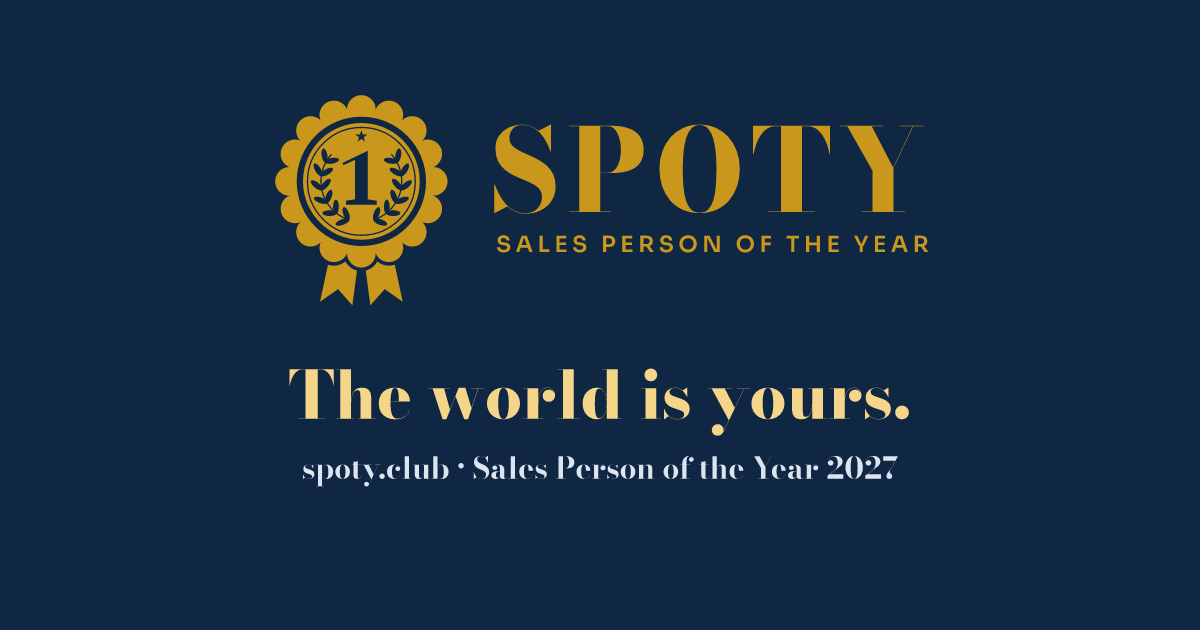
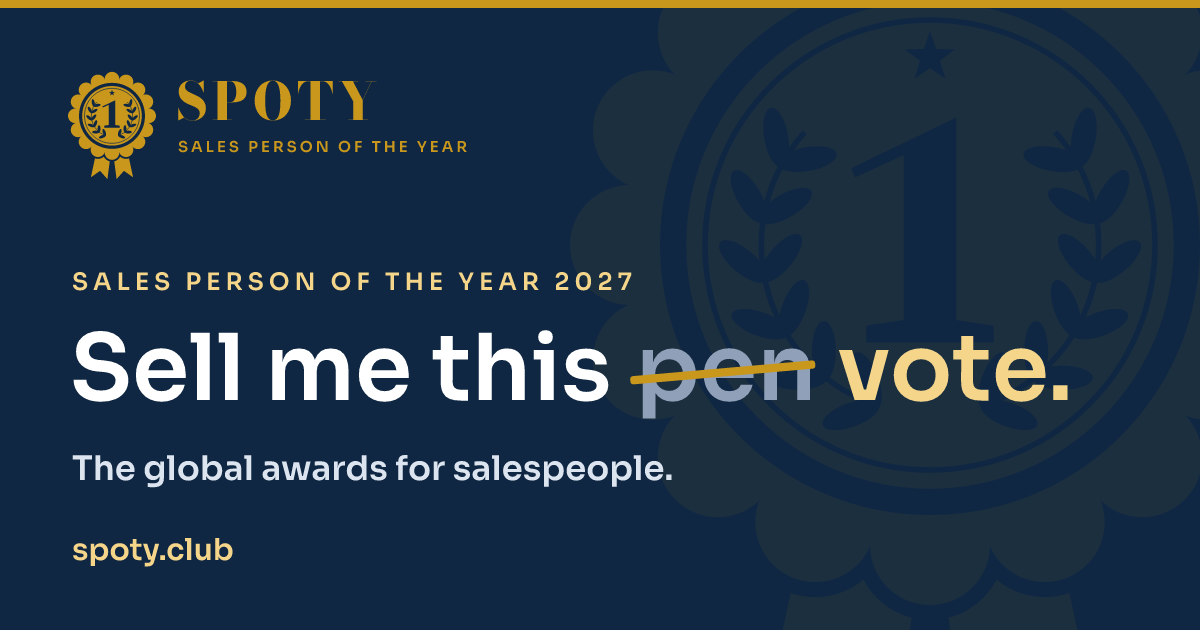
New link preview image, generic LinkedIn share images, share section in welcome email

diff --git a/tools/certificates/share.js b/tools/certificates/share.js
@@ -1,0 +1,102 @@
+// SPOTY share images: the website link preview (og.png) and the generic
+// "I'm going for SPOTY 2027" LinkedIn banner and square post sent in the welcome email.
+// Run: node share.js   (writes to assets/og.png and assets/share/)
+
+const fs = require('fs');
+const path = require('path');
+const { Resvg } = require('@resvg/resvg-js');
+
+const ROOT = path.resolve(__dirname, '..', '..');
+const FONTS = ['bodoni800.ttf', 'bodoni700.ttf', 'bodoni600italic.ttf', 'sora600.ttf'].map((f) => path.join(__dirname, 'fonts', f));
+const MARK = fs.readFileSync(path.join(ROOT, 'assets', 'spoty-mark.svg'), 'utf8');
+const SERIF = "'Bodoni Moda 48pt', 'Bodoni Moda', Didot, serif";
+const NAVY = '#0F2742', GOLD = '#C9971C', GOLD_LIGHT = '#F4D58A', MUTED = '#8FA0B8', ON_NAVY = '#DCE4EF';
+const opts = { font: { fontFiles: FONTS, loadSystemFonts: false, defaultFontFamily: 'Sora' } };
+
+let uid = 0;
+function mark(x, y, h, colour = GOLD, opacity = 1) {
+  const n = ++uid;
+  let inner = MARK.replace(/^[\s\S]*?<svg[^>]*>/, '').replace(/<\/svg>\s*$/, '').replace(/<title>.*?<\/title>/, '');
+  inner = inner.replace(/id="(k\d+[a-z])"/g, `id="m${n}$1"`).replace(/url\(#(k\d+[a-z])\)/g, `url(#m${n}$1)`);
+  inner = inner.split('#C9971C').join(colour);
+  const s = h / 240;
+  return `<g transform="translate(${x - 100 * s} ${y}) scale(${s})" opacity="${opacity}">${inner}</g>`;
+}
+
+// Measure a string's rendered width so the strike-through and "vote." land exactly.
+function width(str, font, size, weight) {
+  const svg = `<svg xmlns="http://www.w3.org/2000/svg" width="4000" height="400"><text x="0" y="300" font-family="${font}" font-size="${size}" font-weight="${weight}" fill="#000" xml:space="preserve">${str}</text></svg>`;
+  const box = new Resvg(svg, opts).getBBox();
+  return box ? box.x + box.width : 0;
+}
+
+// "Sell me this ~~pen~~ vote." starting at x (left aligned) or centred on cx.
+function headline({ x, cx, y, size }) {
+  const font = 'Sora', weight = 600;
+  const space = width('a a', font, size, weight) - width('aa', font, size, weight) + size * 0.08;
+  const w1 = width('Sell me this', font, size, weight);
+  const wPen = width('pen', font, size, weight);
+  const wVote = width('vote.', font, size, weight);
+  const total = w1 + space + wPen + space + wVote;
+  const left = cx !== undefined ? cx - total / 2 : x;
+  const xPen = left + w1 + space, xVote = xPen + wPen + space;
+  const t = (tx, str, fill) => `<text x="${tx}" y="${y}" font-family="${font}" font-size="${size}" font-weight="${weight}" fill="${fill}">${str}</text>`;
+  const sy = y - size * 0.3;
+  return t(left, 'Sell me this', '#FFFFFF') + t(xPen, 'pen', MUTED) + t(xVote, 'vote.', GOLD_LIGHT) +
+    `<rect x="${xPen - size * 0.06}" y="${sy - size * 0.045}" width="${wPen + size * 0.12}" height="${size * 0.09}" rx="${size * 0.03}" fill="${GOLD}" transform="rotate(-5 ${xPen + wPen / 2} ${sy})"/>`;
+}
+
+const text = (x, y, str, { font = 'Sora', size = 30, weight = 600, fill = '#FFFFFF', anchor = 'start', spacing = 0 } = {}) =>
+  `<text x="${x}" y="${y}" font-family="${font}" font-size="${size}" font-weight="${weight}" fill="${fill}" text-anchor="${anchor}"${spacing ? ` letter-spacing="${spacing}"` : ''}>${str}</text>`;
+const bold = (inner, colour, w = 2) => `<g stroke="${colour}" stroke-width="${w}" stroke-linejoin="round">${inner}</g>`;
+
+// ---------- Link preview, 1200 x 630 ----------
+function og() {
+  return `<svg xmlns="http://www.w3.org/2000/svg" viewBox="0 0 1200 630" width="1200" height="630">
+<rect width="1200" height="630" fill="${NAVY}"/>
+${mark(930, -130, 900, GOLD, 0.07)}
+<rect width="1200" height="8" fill="${GOLD}"/>
+${mark(112, 70, 110)}
+${text(176, 120, 'SPOTY', { font: SERIF, size: 52, weight: 800, fill: GOLD, spacing: 4 })}
+${text(178, 152, 'SALES PERSON OF THE YEAR', { size: 15, fill: GOLD, spacing: 3 })}
+${text(72, 290, 'SALES PERSON OF THE YEAR 2027', { size: 24, fill: GOLD_LIGHT, spacing: 5 })}
+${headline({ x: 70, y: 400, size: 92 })}
+${text(72, 480, 'The global awards for salespeople.', { size: 34, fill: ON_NAVY })}
+${text(72, 560, 'spoty.club', { size: 30, fill: GOLD_LIGHT })}
+</svg>`;
+}
+
+// ---------- Generic LinkedIn banner, 1584 x 396 (left 500px kept clear for the profile photo) ----------
+function banner() {
+  return `<svg xmlns="http://www.w3.org/2000/svg" viewBox="0 0 1584 396" width="1584" height="396">
+<rect width="1584" height="396" fill="${NAVY}"/>
+<rect width="1584" height="8" fill="${GOLD}"/>
+${mark(1380, -120, 700, GOLD, 0.06)}
+${mark(1420, 48, 300)}
+${text(520, 148, 'SALES PERSON OF THE YEAR 2027', { size: 28, fill: GOLD_LIGHT, spacing: 6 })}
+${bold(text(518, 240, "I'm going for SPOTY 2027", { font: SERIF, size: 54, weight: 800 }), '#FFFFFF', 2.4)}
+${text(520, 306, 'Early access · spoty.club', { size: 32 })}
+</svg>`;
+}
+
+// ---------- Square post, 1080 x 1080 ----------
+function post() {
+  return `<svg xmlns="http://www.w3.org/2000/svg" viewBox="0 0 1080 1080" width="1080" height="1080">
+<rect width="1080" height="1080" fill="${NAVY}"/>
+${mark(860, 420, 900, GOLD, 0.06)}
+<rect x="36" y="36" width="1008" height="1008" fill="none" stroke="${GOLD}" stroke-width="6"/>
+${mark(540, 110, 300)}
+${text(540, 500, "I'M GOING FOR", { size: 30, fill: GOLD_LIGHT, anchor: 'middle', spacing: 8 })}
+${bold(text(540, 590, 'Sales Person', { font: SERIF, size: 92, weight: 800, anchor: 'middle' }), '#FFFFFF', 2.4)}
+${bold(text(540, 690, 'of the Year 2027', { font: SERIF, size: 92, weight: 800, anchor: 'middle' }), '#FFFFFF', 2.4)}
+${headline({ cx: 540, y: 820, size: 64 })}
+${text(540, 960, 'Early access · spoty.club', { size: 32, fill: ON_NAVY, anchor: 'middle' })}
+</svg>`;
+}
+
+const png = (svg, w) => new Resvg(svg, { ...opts, fitTo: { mode: 'width', value: w } }).render().asPng();
+fs.mkdirSync(path.join(ROOT, 'assets', 'share'), { recursive: true });
+fs.writeFileSync(path.join(ROOT, 'assets', 'og.png'), png(og(), 1200));
+fs.writeFileSync(path.join(ROOT, 'assets', 'share', 'spoty-linkedin-banner.png'), png(banner(), 1584));
+fs.writeFileSync(path.join(ROOT, 'assets', 'share', 'spoty-post.png'), png(post(), 1080));
+console.log('wrote assets/og.png, assets/share/spoty-linkedin-banner.png, assets/share/spoty-post.png');

diff --git a/api/_lib/email.js b/api/_lib/email.js
@@ -64,7 +64,7 @@ function welcomeEmail(email) {
     <h2 style="margin:0 0 18px 0;font-family:${serif};font-size:22px;font-weight:bold;color:${navy};">What happens next</h2>
     <table role="presentation" width="100%" cellpadding="0" cellspacing="0" border="0">
       ${step(1, 'We open the doors', "We'll email you the moment SPOTY launches, before anyone else.")}
-      ${step(2, 'Create your free profile', 'It takes two minutes. Every member gets the SPOTY member insignia and a personalised LinkedIn banner with their vote link, ready to post.')}
+      ${step(2, 'Create your free profile', 'It takes two minutes. At launch, every member gets the SPOTY member insignia and a personalised LinkedIn banner with their vote link.')}
       ${step(3, 'Get your votes in', 'Share your link with the people who have seen you sell. Climb the global, national and age leaderboards.')}
     </table>
   </td></tr>
@@ -82,8 +82,15 @@ function welcomeEmail(email) {
 
   <tr><td style="padding:24px 36px 32px 36px;">
     <table role="presentation" width="100%" cellpadding="0" cellspacing="0" border="0" style="background:#FBF6E8;border:1px solid #EBD9A6;border-radius:10px;"><tr><td style="padding:20px 22px;font-family:${sans};font-size:15px;line-height:22px;color:${ink};">
-      <b>Know a great salesperson?</b> Send them to spoty.club so they can compete too.
-      <div style="margin-top:14px;"><a href="${SITE}" style="display:inline-block;background:${gold};color:${navy};font-family:${sans};font-size:15px;font-weight:700;text-decoration:none;padding:12px 22px;border-radius:999px;">Visit spoty.club</a></div>
+      <h2 style="margin:0 0 6px 0;font-family:${serif};font-size:22px;font-weight:bold;color:${navy};">Tell your network you're in</h2>
+      Let people know you're going for Sales Person of the Year. Here's a LinkedIn banner and a post image, ready to use.
+      <a href="${SITE}/assets/share/spoty-post.png"><img src="${SITE}/assets/share/spoty-post.png" width="240" alt="I'm going for Sales Person of the Year 2027. Sell me this vote. spoty.club" style="display:block;width:240px;max-width:100%;height:auto;border:0;border-radius:6px;margin:16px 0 4px 0;"></a>
+      <div style="margin-top:14px;">
+        <a href="https://www.linkedin.com/sharing/share-offsite/?url=https%3A%2F%2Fwww.spoty.club" style="display:inline-block;background:${gold};color:${navy};font-family:${sans};font-size:15px;font-weight:700;text-decoration:none;padding:12px 22px;border-radius:999px;margin:0 8px 8px 0;">Share on LinkedIn</a>
+        <a href="${SITE}/assets/share/spoty-linkedin-banner.png" style="display:inline-block;background:#FFFFFF;color:${navy};border:1px solid #D9C48A;font-family:${sans};font-size:15px;font-weight:700;text-decoration:none;padding:11px 20px;border-radius:999px;margin:0 8px 8px 0;">Get the banner</a>
+        <a href="${SITE}/assets/share/spoty-post.png" style="display:inline-block;background:#FFFFFF;color:${navy};border:1px solid #D9C48A;font-family:${sans};font-size:15px;font-weight:700;text-decoration:none;padding:11px 20px;border-radius:999px;margin:0 0 8px 0;">Get the post image</a>
+      </div>
+      <p style="margin:10px 0 0 0;font-size:14px;line-height:20px;color:${muted};">When SPOTY launches, every member gets their own <b style="color:${ink};">personalised LinkedIn banner</b> with their name and vote link. Know a great salesperson? Send them to spoty.club so they can compete too.</p>
     </td></tr></table>
   </td></tr>
 
@@ -106,7 +113,7 @@ Thanks for joining SPOTY, the global awards for salespeople. You'll be one of th
 
 WHAT HAPPENS NEXT
 1. We open the doors: we'll email you the moment SPOTY launches.
-2. Create your free profile: it takes two minutes. Every member gets the SPOTY member insignia and a personalised LinkedIn banner with their vote link.
+2. Create your free profile: it takes two minutes. At launch, every member gets the SPOTY member insignia and a personalised LinkedIn banner with their vote link.
 3. Get your votes in: share your link with the people who have seen you sell.
 
 WHAT YOU COULD WIN
@@ -116,6 +123,11 @@ WHAT YOU COULD WIN
 - Prime Closer: most votes for your age, worldwide (digital certificate)
 
 Voting closes at midnight (UK time) on 31 December 2027. Winners are revealed in January 2028.
+
+TELL YOUR NETWORK YOU'RE IN
+LinkedIn banner: https://www.spoty.club/assets/share/spoty-linkedin-banner.png
+Post image: https://www.spoty.club/assets/share/spoty-post.png
+When SPOTY launches, every member gets their own personalised LinkedIn banner with their name and vote link.
 
 Know a great salesperson? Send them to https://www.spoty.club so they can compete too.
 
